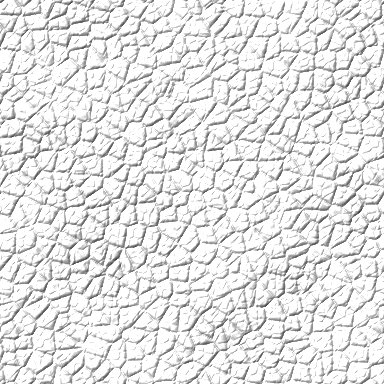
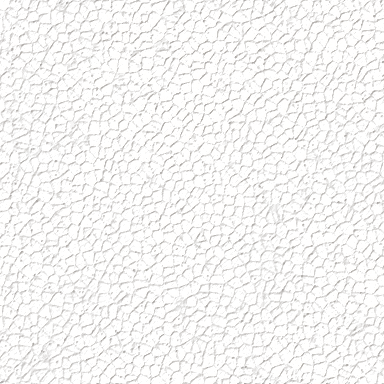
Age the cookbook leather: shallow grain, uneven dye, wear, and a deeper palette
The grain is finer and much shallower. A second, non-repeating layer adds
dye that took unevenly, rubbed patches and scratches; each book shows a
different part of it (by id), so a shelf is not a row of twins. Edges are
rubbed pale, corners darkened, the gilt is duller, and the seven cover
colours are deeper and more muted.

Claude-Session: https://claude.ai/code/session_013ungtX97ksePF4x5XryymQ

diff --git a/web/src/doc.css b/web/src/doc.css
@@ -129,32 +129,39 @@
 /* ------------------------------------------------------------ paper preview & print */
 .sheet-paper { container-type: inline-size; background: #fff; color: #1c231f; border-radius: 4px; box-shadow: var(--shadow-lg); padding: clamp(22px, 6.5%, 64px); }
 
-/* Cookbook covers are bound in leather: grain, a soft sheen, a hinge by the spine and stamped lettering. */
+/* Cookbook covers are bound in old leather. From the bottom up: the dye, a fine shallow grain, a layer of wear
+   (uneven dye, rubbed patches, scratches) that each book shows a different part of, then edges rubbed pale,
+   corners darkened by hands, and a hinge by the spine. The lettering is stamped in worn gilt. */
 .cover {
-  --c: #2c4a3a; --c-ink: #f1e6c4; --c-deep: rgb(0 0 0 / 0.34);
+  --c: #24362b; --c-ink: #d8c592; --wear: 1; --rub: rgb(226 204 166 / 0.2); --wx: 0%; --wy: 0%;
   position: relative; display: grid; align-content: center; justify-items: center; text-align: center; gap: 0.5em;
   aspect-ratio: 3 / 4; padding: 12%; border-radius: 0.5em 1.1em 1.1em 0.5em; color: var(--c-ink);
   font-family: var(--serif); container-type: inline-size; overflow: hidden; isolation: isolate;
   background-color: var(--c);
   background-image:
-    linear-gradient(90deg, rgb(0 0 0 / 0.34) 0, rgb(255 255 255 / 0.1) 3.2%, rgb(0 0 0 / 0.3) 6.4%, rgb(255 255 255 / 0.07) 8.6%, transparent 12%),
-    linear-gradient(118deg, rgb(255 255 255 / 0.13) 0%, transparent 32%, transparent 62%, rgb(0 0 0 / 0.2) 100%),
-    radial-gradient(120% 90% at 46% 38%, transparent 42%, var(--c-deep) 100%),
+    linear-gradient(90deg, rgb(0 0 0 / 0.3) 0, rgb(255 255 255 / 0.05) 3.4%, rgb(0 0 0 / 0.26) 6.6%, rgb(255 255 255 / 0.04) 8.8%, transparent 12.5%),
+    linear-gradient(to left, var(--rub), transparent 2.6%),
+    linear-gradient(to bottom, var(--rub), transparent 1.8%),
+    linear-gradient(to top, var(--rub), transparent 1.8%),
+    radial-gradient(34% 26% at 100% 0, var(--rub), transparent 70%),
+    radial-gradient(34% 26% at 100% 100%, var(--rub), transparent 70%),
+    radial-gradient(130% 100% at 48% 42%, transparent 38%, rgb(12 8 4 / 0.42) 100%),
     url('./assets/leather.webp');
-  background-size: auto, auto, auto, 46% auto;
-  box-shadow: inset 0 0 0 1px rgb(255 255 255 / 0.07), inset 0 -0.25em 0.5em -0.2em rgb(0 0 0 / 0.4), inset 0 0.2em 0.4em -0.2em rgb(255 255 255 / 0.18);
+  background-size: auto, auto, auto, auto, auto, auto, auto, 40% auto;
+  box-shadow: inset 0 0 0 1px rgb(255 255 255 / 0.04), inset 0 -0.2em 0.45em -0.2em rgb(0 0 0 / 0.4);
   print-color-adjust: exact; -webkit-print-color-adjust: exact;
 }
-/* A blind-stamped frame: a groove with a lit lower edge. */
-.cover::before { content: ''; position: absolute; inset: 6% 6% 6% 13%; border: 1px solid rgb(0 0 0 / 0.38); border-radius: 0.2em; pointer-events: none; box-shadow: 0 1px 0 rgb(255 255 255 / 0.14), inset 0 1px 0 rgb(0 0 0 / 0.16), inset 0 0 0 0.55cqw transparent, inset 0 0 0 calc(0.55cqw + 1px) color-mix(in srgb, var(--c-ink) 42%, transparent); }
-.cover::after { content: none; }
+.cover::after { content: ''; position: absolute; inset: 0; z-index: -1; pointer-events: none; opacity: var(--wear); background: url('./assets/patina.webp') var(--wx) var(--wy) / 155% 155% no-repeat; }
+/* A blind-stamped frame: a groove with a faint gilt line inside it. */
+.cover::before { content: ''; position: absolute; inset: 6% 6% 6% 13%; border: 1px solid rgb(0 0 0 / 0.34); border-radius: 0.2em; pointer-events: none; box-shadow: 0 1px 0 rgb(255 255 255 / 0.08), inset 0 1px 0 rgb(0 0 0 / 0.14), inset 0 0 0 0.55cqw transparent, inset 0 0 0 calc(0.55cqw + 1px) color-mix(in srgb, var(--c-ink) 34%, transparent); }
 .cover > * { position: relative; left: 3.5%; }
-.cover b { font: 600 15.5cqw/1.04 var(--serif); letter-spacing: -0.012em; text-wrap: balance; text-shadow: 0 -1px 0 rgb(0 0 0 / 0.42), 0 1px 0 rgb(255 255 255 / 0.16); }
-.cover i { font-size: 7cqw; line-height: 1.3; opacity: 0.88; text-wrap: balance; text-shadow: 0 -1px 0 rgb(0 0 0 / 0.38); }
-.cover svg { width: 14cqw; height: 14cqw; margin-top: 5cqw; opacity: 0.9; filter: drop-shadow(0 -1px 0 rgb(0 0 0 / 0.4)); }
-.cover.bay { --c: #2b4737; } .cover.tomato { --c: #8f2f25; } .cover.butter { --c: #d9b23f; --c-ink: #33290a; --c-deep: rgb(92 58 0 / 0.36); }
-.cover.charcoal { --c: #24292c; } .cover.plum { --c: #4a2d48; } .cover.ocean { --c: #21445a; } .cover.paper { --c: #e6dcc6; --c-ink: #3a3122; --c-deep: rgb(96 72 30 / 0.3); }
-.cover.butter b, .cover.butter i, .cover.paper b, .cover.paper i { text-shadow: 0 1px 0 rgb(255 255 255 / 0.4); }
+.cover b { font: 600 15.5cqw/1.04 var(--serif); letter-spacing: -0.012em; text-wrap: balance; opacity: 0.94; text-shadow: 0 -1px 0 rgb(0 0 0 / 0.45), 0 1px 0 rgb(255 255 255 / 0.1); }
+.cover i { font-size: 7cqw; line-height: 1.3; opacity: 0.8; text-wrap: balance; text-shadow: 0 -1px 0 rgb(0 0 0 / 0.4); }
+.cover svg { width: 14cqw; height: 14cqw; margin-top: 5cqw; opacity: 0.82; filter: drop-shadow(0 -1px 0 rgb(0 0 0 / 0.4)); }
+.cover.bay { --c: #24362b; } .cover.tomato { --c: #5c2620; } .cover.ocean { --c: #1d3441; } .cover.plum { --c: #3a2637; } .cover.charcoal { --c: #1f2122; }
+.cover.butter { --c: #a98740; --c-ink: #2c2210; --wear: 0.72; --rub: rgb(244 228 190 / 0.3); }
+.cover.paper { --c: #c8ba9b; --c-ink: #33291a; --wear: 0.62; --rub: rgb(250 242 222 / 0.34); }
+.cover.butter b, .cover.butter i, .cover.paper b, .cover.paper i { text-shadow: 0 1px 0 rgb(255 255 255 / 0.28); }
 
 .toc { font-family: var(--serif); }
 .toc h1 { font: 400 1.5em/1.3 var(--serif); letter-spacing: 0.16em; text-transform: uppercase; text-align: center; }

diff --git a/web/src/components/Cover.svelte b/web/src/components/Cover.svelte
@@ -1,9 +1,11 @@
 <script lang="ts">
   import Logo from './Logo.svelte';
-  let { title, subtitle = '', color = 'bay' }: { title: string; subtitle?: string; color?: string } = $props();
+  // Each book shows its own patch of wear, picked by `seed` (the book's id), so a shelf is not a row of twins.
+  let { title, subtitle = '', color = 'bay', seed = 0 }: { title: string; subtitle?: string; color?: string; seed?: number } = $props();
+  const at = $derived([(seed * 37) % 101, (seed * 59 + 23) % 101]);
 </script>
 
-<div class={`cover ${color}`}>
+<div class={`cover ${color}`} style:--wx={`${at[0]}%`} style:--wy={`${at[1]}%`}>
   <b>{title}</b>
   {#if subtitle}<i>{subtitle}</i>{/if}
   <span style="--butter: currentColor; color: inherit"><Logo size={32} /></span>

diff --git a/web/src/routes/CookbookPage.svelte b/web/src/routes/CookbookPage.svelte
@@ -95,7 +95,7 @@
   <div class="page">
     <a class="btn quiet sm" href="/books" style="margin:0 0 10px -10px"><ArrowLeft />Cookbooks</a>
     <header class="head">
-      <div class="cov"><Cover title={book.title} subtitle={book.subtitle} color={book.color} /></div>
+      <div class="cov"><Cover title={book.title} subtitle={book.subtitle} color={book.color} seed={book.id} /></div>
       <div class="stack" style:gap="10px">
         <h1 class="page-title">{book.title}</h1>
         {#if book.subtitle}<p class="serif sub">{book.subtitle}</p>{/if}

diff --git a/web/src/routes/Cookbooks.svelte b/web/src/routes/Cookbooks.svelte
@@ -42,7 +42,7 @@
     <div class="shelf">
       {#each app.cookbooks as b (b.id)}
         <a class="book" href={`/books/${b.id}`}>
-          <Cover title={b.title} subtitle={b.subtitle} color={b.color} />
+          <Cover title={b.title} subtitle={b.subtitle} color={b.color} seed={b.id} />
           <span class="faint small num">{b.count} recipe{b.count === 1 ? '' : 's'}</span>
         </a>
       {/each}

diff --git a/web/src/components/BookDoc.svelte b/web/src/components/BookDoc.svelte
@@ -23,7 +23,7 @@
   });
 </script>
 
-<div class="sheet-paper book-cover"><Cover title={book.title} subtitle={book.subtitle} color={book.color} /></div>
+<div class="sheet-paper book-cover"><Cover title={book.title} subtitle={book.subtitle} color={book.color} seed={book.id} /></div>
 
 <div class="sheet-paper page-break">
   <div class="toc">

diff --git a/scripts/leather.py b/scripts/leather.py
@@ -1,24 +1,56 @@
 #!/usr/bin/env python3
-"""Draw the seamless leather grain used on cookbook covers.
+"""Draw the two textures that make the leather on cookbook covers.
 
-    python3 scripts/leather.py        # writes web/src/assets/leather.webp
+    python3 scripts/leather.py
 
-The tile is black or white with varying alpha (shade and sheen), so it sits on
-any cover colour without blend modes. Needs numpy and Pillow.
+    web/src/assets/leather.webp   a seamless tile of fine, shallow grain
+    web/src/assets/patina.webp    one cover's worth of wear: mottled dye, rubbed patches and scratches
+
+Both are a dark or a pale colour with varying alpha, so they sit on any cover
+colour without blend modes. Needs numpy and Pillow.
 """
 import numpy as np
-from PIL import Image
+from PIL import Image, ImageDraw, ImageFilter
 
-N, rng = 384, np.random.default_rng(7)
+rng = np.random.default_rng(11)
+
+
+def noise(shape, octaves):
+    """Fractal noise in -1..1 from smoothed random grids (wraps at the edges)."""
+    h, w = shape
+    out = np.zeros(shape, np.float32)
+    for (gy, gx), amp in octaves:
+        g = rng.random((gy, gx)).astype(np.float32)
+        im = Image.fromarray(np.tile(g, (3, 3)) * 255).convert('L').resize((3 * w, 3 * h), Image.BICUBIC)
+        out += amp * (np.asarray(im, np.float32)[h:2 * h, w:2 * w] / 255 - 0.5)
+    return out / np.abs(out).max()
+
+
+def step(a, b, x):
+    t = np.clip((x - a) / (b - a), 0, 1)
+    return t * t * (3 - 2 * t)
+
+
+def rgba(signed, dark, pale, dark_gain, pale_gain):
+    """Negative values become `dark`, positive ones `pale`; the size becomes alpha."""
+    out = np.zeros(signed.shape + (4,), np.uint8)
+    neg = signed < 0
+    out[..., :3] = np.where(neg[..., None], dark, pale)
+    out[..., 3] = np.clip(np.where(neg, -signed * dark_gain, signed * pale_gain) * 255, 0, 255)
+    return out
+
+
+# ---------------------------------------------------------------- grain
+N = 384
 yy, xx = np.mgrid[0:N, 0:N].astype(np.float32)
 
 
-def worley(count, jitter=1.0):
-    """Distance to the nearest and second-nearest of `count` wrapped points."""
+def worley(count):
+    """Distance to the nearest and second-nearest of `count` wrapped, jittered points."""
     g = int(np.sqrt(count))
     cell = N / g
-    px = ((np.arange(g)[None, :] + 0.5 + (rng.random((g, g)) - 0.5) * jitter) * cell).ravel()
-    py = ((np.arange(g)[:, None] + 0.5 + (rng.random((g, g)) - 0.5) * jitter) * cell).ravel()
+    px = ((np.arange(g)[None, :] + rng.random((g, g))) * cell).ravel()
+    py = ((np.arange(g)[:, None] + rng.random((g, g))) * cell).ravel()
     d1 = np.full((N, N), 1e9, np.float32)
     d2 = np.full((N, N), 1e9, np.float32)
     for x, y in zip(px, py):
@@ -30,38 +62,60 @@ def worley(count, jitter=1.0):
     return d1, d2, cell
 
 
-def noise(octaves):
-    """Tileable fractal noise from wrapped, smoothed random grids."""
-    out = np.zeros((N, N), np.float32)
-    for o, amp in octaves:
-        g = rng.random((o, o)).astype(np.float32)
-        im = Image.fromarray(np.tile(g, (3, 3)) * 255).convert('L').resize((3 * N, 3 * N), Image.BICUBIC)
-        out += amp * (np.asarray(im, np.float32)[N:2 * N, N:2 * N] / 255 - 0.5)
-    return out
-
-
-# Pebbles: raised cells with creases between them, at two sizes.
-h = np.zeros((N, N), np.float32)
-for count, depth in ((520, 1.0), (2100, 0.35)):
+# Small flat pebbles between hairline creases, a little uneven in depth, with pores.
+height = np.zeros((N, N), np.float32)
+for count, depth in ((1500, 1.0), (5600, 0.4)):
     d1, d2, cell = worley(count)
-    crease = np.clip((d2 - d1) / (cell * 0.42), 0, 1)
-    h += depth * (1 - (1 - crease) ** 2.2)
-h += 0.9 * noise(((6, 1.0), (14, 0.6))) + 0.25 * noise(((64, 1.0), (128, 0.7)))
+    height += depth * step(0.0, 0.3, (d2 - d1) / cell)
+height *= 0.75 + 0.25 * noise((N, N), (((5, 5), 1.0), ((11, 11), 0.5)))
+height += 0.22 * noise((N, N), (((90, 90), 1.0), ((180, 180), 0.8)))
+pores = (rng.random((N, N)) > 0.9965).astype(np.float32)
+height -= 0.5 * np.asarray(Image.fromarray(pores * 255).convert('L').filter(ImageFilter.GaussianBlur(0.8)), np.float32) / 255 * 6
 
-# Light it from the upper left.
-gy, gx = np.gradient(np.pad(h, 2, mode='wrap'))
+gy, gx = np.gradient(np.pad(height, 2, mode='wrap'))
 gx, gy = gx[2:-2, 2:-2], gy[2:-2, 2:-2]
-k = 5.0
-nx, ny, nz = -gx * k, -gy * k, np.ones_like(h)
-ln = np.sqrt(nx * nx + ny * ny + nz * nz)
-L = np.array([-0.5, -0.6, 0.62]); L /= np.linalg.norm(L)
-shade = (nx * L[0] + ny * L[1] + nz * L[2]) / ln
-shade = shade - shade.mean() + 0.18 * (h - h.mean())
-shade /= np.abs(shade).max()
+shade = -(gx * 0.55 + gy * 0.65) + 0.3 * (height - height.mean())
+shade = np.clip(shade / np.percentile(np.abs(shade), 99.5), -1, 1)
+Image.fromarray(rgba(shade, (22, 13, 8), (255, 243, 222), 0.34, 0.16), 'RGBA').save('web/src/assets/leather.webp', quality=30, alpha_quality=38, method=6)
 
-rgba = np.zeros((N, N, 4), np.uint8)
-rgba[..., :3] = np.where(shade > 0, 255, 0)[..., None]
-a = np.abs(shade)
-rgba[..., 3] = np.clip(np.where(shade > 0, a ** 1.15 * 105, a ** 0.9 * 190), 0, 255)
-Image.fromarray(rgba, 'RGBA').save('web/src/assets/leather.webp', quality=40, alpha_quality=55, method=6)
-print('wrote web/src/assets/leather.webp')
+# ---------------------------------------------------------------- patina
+W, H = 540, 720
+S = (H, W)
+
+# Dye that took unevenly and darkened with handling; paler where it has dried out.
+mottle = noise(S, (((3, 2), 1.0), ((6, 5), 0.8), ((13, 10), 0.55), ((28, 21), 0.35), ((60, 45), 0.2)))
+dark = 0.42 * np.clip(mottle, 0, 1) ** 1.3 + 0.16 * step(0.1, 0.9, noise(S, (((5, 4), 1.0), ((11, 8), 0.6), ((24, 18), 0.3))))
+pale = 0.24 * np.clip(-mottle - 0.1, 0, 1) ** 1.2
+
+# Rubbed patches: the surface abraded pale, faintly along one direction.
+streaks = Image.fromarray(((noise((900, 900), (((300, 90), 1.0), ((600, 220), 0.8), ((900, 450), 0.5))) * 0.5 + 0.5) * 255).astype(np.uint8))
+for angle, lo in ((24, 0.25), (-58, 0.42)):
+    zone = step(lo, lo + 0.35, noise(S, (((4, 3), 1.0), ((9, 7), 0.6), ((20, 15), 0.3))))
+    grain = np.asarray(streaks.rotate(angle, Image.BICUBIC).crop((180, 90, 180 + W, 90 + H)), np.float32) / 255
+    pale += 0.15 * zone * step(0.45, 0.9, grain)
+
+# Scratches and nicks, mostly pale, a few cut dark.
+marks = Image.new('L', (W * 2, H * 2), 0)
+cuts = Image.new('L', (W * 2, H * 2), 0)
+for layer, count, reach in ((marks, 170, 80), (marks, 16, 380), (cuts, 18, 120)):
+    pen = ImageDraw.Draw(layer)
+    for _ in range(count):
+        x, y, a = rng.random() * W * 2, rng.random() * H * 2, rng.random() * np.pi
+        n = rng.random() ** 2 * reach + 8
+        bend = (rng.random() - 0.5) * n * 0.25
+        pts = [(x + np.cos(a) * n * t + np.sin(a) * bend * np.sin(t * np.pi), y + np.sin(a) * n * t - np.cos(a) * bend * np.sin(t * np.pi)) for t in np.linspace(0, 1, 9)]
+        pen.line(pts, fill=int(70 + rng.random() * 150), width=1 if rng.random() < 0.8 else 2)
+small = lambda im: np.asarray(im.filter(ImageFilter.GaussianBlur(0.9)).resize((W, H), Image.LANCZOS), np.float32) / 255
+pale += 0.42 * small(marks)
+dark += 0.4 * small(cuts)
+
+# The stain runs from warm umber to a cold near-black, the wear from tan to grey.
+warm = (noise(S, (((4, 3), 1.0), ((9, 7), 0.5))) * 0.5 + 0.5)[..., None]
+stain = (62, 32, 12) * warm + (20, 17, 16) * (1 - warm)
+worn = (214, 184, 140) * warm + (226, 222, 212) * (1 - warm)
+signed = pale - dark
+out = np.zeros(S + (4,), np.uint8)
+out[..., :3] = np.where((signed < 0)[..., None], stain, worn)
+out[..., 3] = np.clip(np.abs(signed) * 255, 0, 255)
+Image.fromarray(out, 'RGBA').save('web/src/assets/patina.webp', quality=40, alpha_quality=82, method=6)
+print('wrote web/src/assets/leather.webp and patina.webp')

diff --git a/CHANGELOG.md b/CHANGELOG.md
@@ -5,7 +5,7 @@
 - **Cookbook pages are re-typeset** after a classic cookbook spread: the chapter as a running head, the title in letterspaced capitals, a justified headnote over a hairline, the yield and times above a narrow sans-serif ingredient column, the method beside it with small hanging step numbers, the notes in a tinted box at the foot of the page and the recipe's number beneath. Modern and Compact share the new structure.
 - **A photograph faces its recipe.** In a shared cookbook each recipe is a spread, photo on the left; on a phone the photo sits above the recipe. Printed, the photo takes a page of its own, to the edges of the paper.
 - **A printed recipe keeps to one sheet when it can.** The photo and the whole ingredient list stay on the first page. The print preview is now a scale model of the sheet: it sets the recipe at up to five tightnesses, uses the roomiest that fits one page, never goes below about 10 pt, and says how many pages will print.
-- **Cookbook covers are bound in leather**, with grain, a hinge by the spine and stamped lettering, in all seven colours.
+- **Cookbook covers are bound in old leather**: a fine, shallow grain, unevenly taken dye, rubbed patches and scratches, edges worn pale, a hinge by the spine and lettering stamped in worn gilt. Each book shows its own wear. The seven cover colours are deeper and more muted.
 - Fixed: printed notes could jump to a second page with room to spare; the Compact style drew a stray outline.
 
 ## 2.0.0

diff --git a/README.md b/README.md
@@ -217,7 +217,7 @@ FOND_DATA=./data go run ./cmd/fond                 # http://localhost:8080
 
 Releases are cut by changing the number in `VERSION`; the workflow then publishes the versioned image and creates the GitHub release.
 
-For live reload, run `npm run dev` in `web/` (it proxies the API to port 8080). `go test ./...` and `npm test` run the server and parser tests. To change what an ingredient weighs, edit `scripts/foods/foods.txt` and run `python3 scripts/foods/build.py`; see [`scripts/foods/README.md`](scripts/foods/README.md). `scripts/seed_demo.py` fills a fresh instance with the demo recipes used in the screenshots, and `scripts/leather.py` redraws the leather grain on the cookbook covers.
+For live reload, run `npm run dev` in `web/` (it proxies the API to port 8080). `go test ./...` and `npm test` run the server and parser tests. To change what an ingredient weighs, edit `scripts/foods/foods.txt` and run `python3 scripts/foods/build.py`; see [`scripts/foods/README.md`](scripts/foods/README.md). `scripts/seed_demo.py` fills a fresh instance with the demo recipes used in the screenshots, and `scripts/leather.py` redraws the leather grain and wear on the cookbook covers.
 
 The server is Go with SQLite (pure Go, FTS5 for search). The client is Svelte 5. Typefaces are Vollkorn and Figtree, icons are Lucide, all under open licenses. Demo photos in the screenshots are from Unsplash.
 
